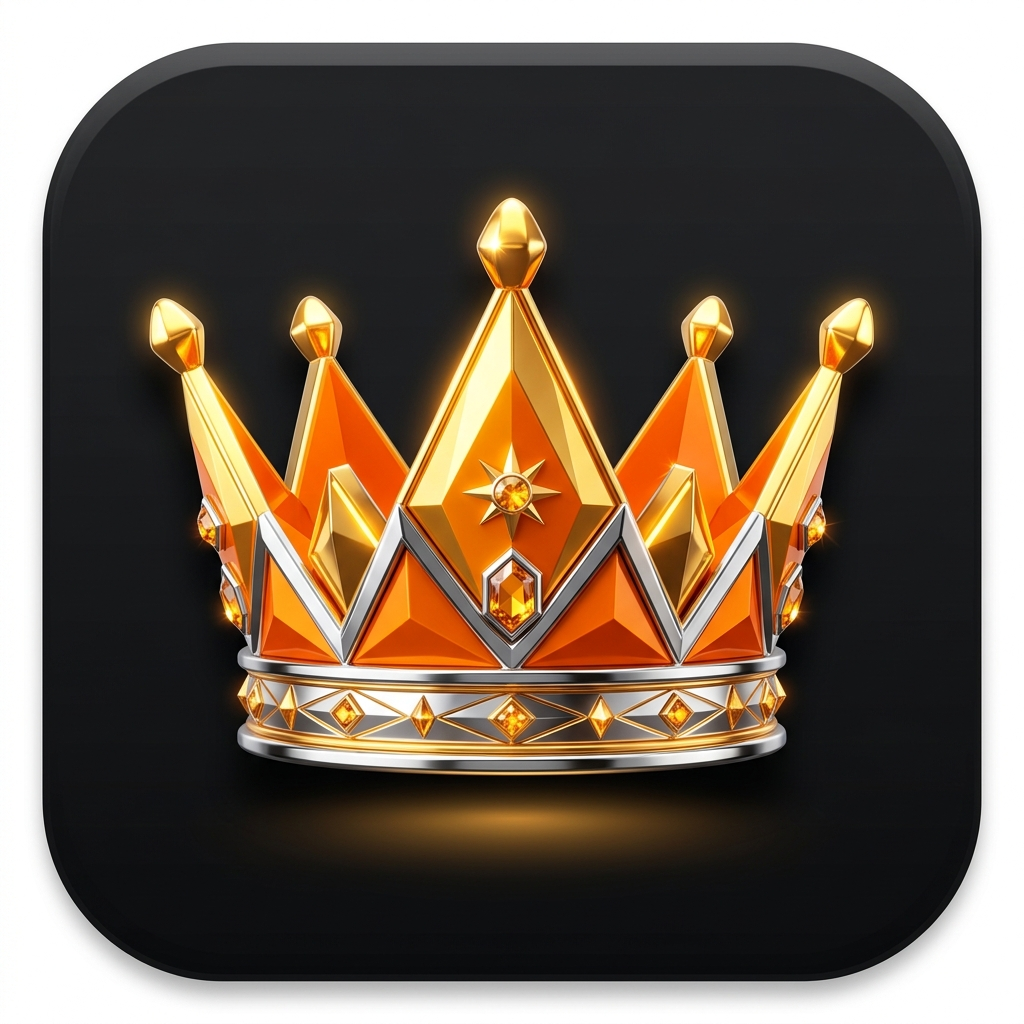
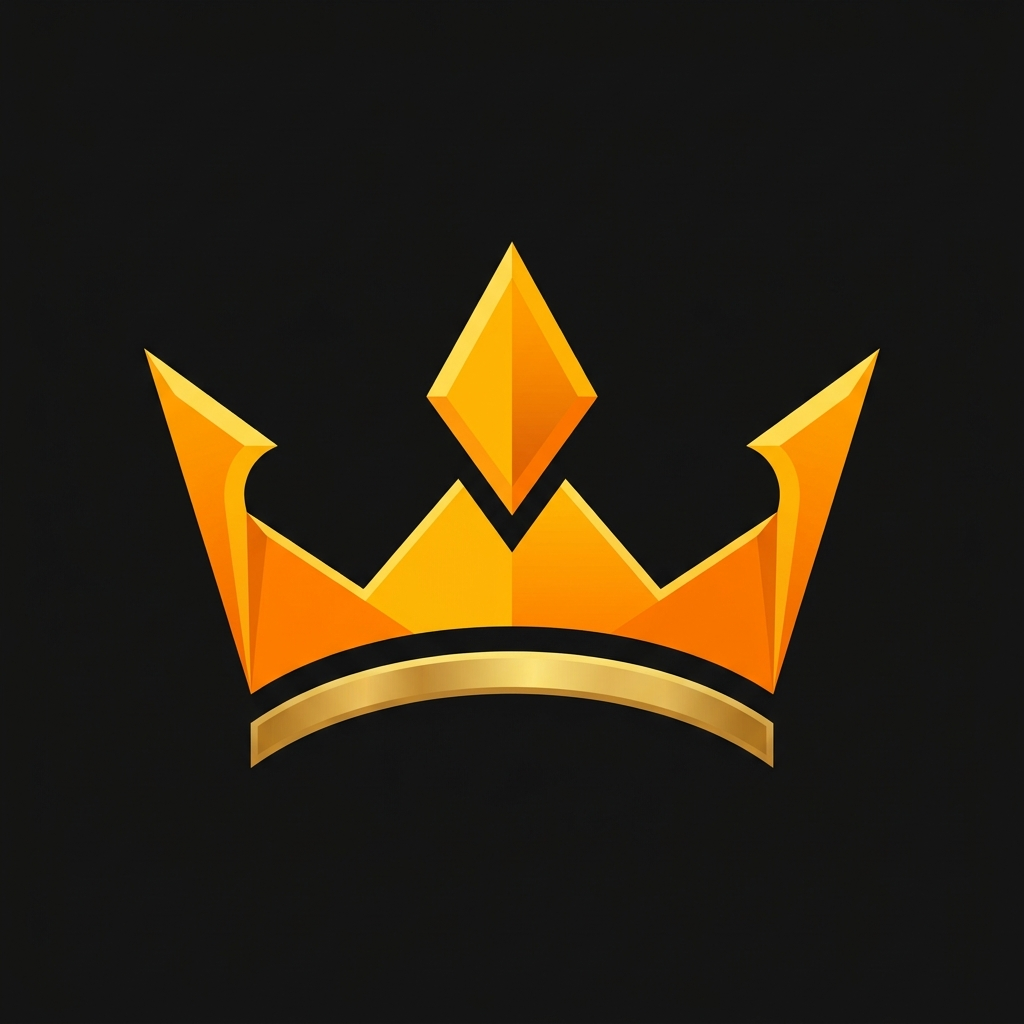
refactor(map): simplify CoverageMap component
Remove redundant API key validation UI to improve code
cleanliness. Update application icon metadata.

diff --git a/src/components/CoverageMap.tsx b/src/components/CoverageMap.tsx
@@ -139,132 +139,85 @@ export default function CoverageMap({
         
         {/* GOOGLE MAPS PLATFORM REAL INTEGRATION VIEW */}
         <div className="w-full h-full relative" id="google-maps-integration-view">
-          {!hasValidKey ? (
-            /* Splash screen informative card for missing API key */
-            <div className="absolute inset-0 flex flex-col items-center justify-center bg-black/95 p-6 text-center select-text z-20">
-              <div className="max-w-md bg-[#161616] border border-neutral-800 p-5 rounded-2xl shadow-2xl space-y-4">
-                <div className="w-12 h-12 rounded-xl bg-orange-950/50 border border-orange-500/30 flex items-center justify-center mx-auto text-xl">
-                  ⚠️
-                </div>
-                <div className="space-y-1">
-                  <h3 className="text-sm font-black text-white uppercase tracking-wider">Chave do Google Maps Requerida</h3>
-                  <p className="text-[11px] text-slate-400 leading-relaxed">
-                    Para visualizar o Mapa Real integrado por satélite e geolocalização exata, você precisa associar uma Chave de API do Google Maps Platform nos Secrets do seu workspace.
-                  </p>
-                </div>
+          <APIProvider apiKey={API_KEY || ''} version="weekly">
+            <Map
+              defaultCenter={CENTER_COORD}
+              defaultZoom={12}
+              mapId="DEMO_MAP_ID"
+              gestureHandling="cooperative"
+              disableDefaultUI={false}
+              internalUsageAttributionIds={['gmp_mcp_codeassist_v1_aistudio']}
+              style={{ width: '100%', height: '100%' }}
+            >
+              {/* Driver locator pin */}
+              <AdvancedMarker position={CENTER_COORD} title="Você (Sua Carga)">
+                <Pin background="#FF8C00" borderColor="#FFFFFF" glyphColor="#000000" scale={1.2}>
+                  🚚
+                </Pin>
+              </AdvancedMarker>
 
-                <div className="bg-black/65 border border-neutral-850 p-3 rounded-xl text-left text-[10px] text-slate-350 space-y-1.5 leading-normal">
-                  <p className="font-black text-orange-400 uppercase tracking-widest text-[9px]">Passo a Passo de Configuração:</p>
-                  <p><strong>1.</strong> Obtenha uma chave no console: <a href="https://console.cloud.google.com/google/maps-apis/start?utm_campaign=gmp-code-assist-ais" target="_blank" rel="noopener noreferrer" className="text-orange-400 hover:underline inline-flex items-center gap-0.5 font-bold">Obter Chave <ExternalLink className="w-3 h-3" /></a></p>
-                  <p><strong>2.</strong> Abra as <strong>Configurações do AI Studio</strong> (ícone de engrenagem ⚙️ no canto superior direito).</p>
-                  <p><strong>3.</strong> Acesse a aba <strong>Secrets</strong> e clique em <strong>Add Secret</strong>.</p>
-                  <p><strong>4.</strong> Digite o nome <code>GOOGLE_MAPS_PLATFORM_KEY</code> e insira a sua chave como valor.</p>
-                  <p className="text-slate-500 font-bold italic mt-1">O projeto irá se recompilar automaticamente e o Mapa Real carregará em tempo real!</p>
-                </div>
+              {/* Active suppliers pins on real map */}
+              {suppliers.filter(getIsSupplierVisible).map((supplier) => {
+                const coords = getGoogleCoords(supplier);
+                const isSelected = activeSupplierId === supplier.id || selectedGoogleSupplier?.id === supplier.id;
+                const hexColor = getCategoryHexColor(supplier.category);
+                const emoji = getCategoryEmoji(supplier.category);
 
-                <div className="flex gap-2 justify-center">
-                  <button
-                    type="button"
-                    onClick={() => setShowKeyHelp(!showKeyHelp)}
-                    className="px-4 py-2 bg-[#FF8C00] text-black rounded-xl text-[10px] font-black uppercase tracking-wider hover:bg-orange-500 cursor-pointer"
+                return (
+                  <AdvancedMarker
+                    key={supplier.id}
+                    position={coords}
+                    title={supplier.name}
+                    onClick={() => {
+                      setSelectedGoogleSupplier(supplier);
+                      onSelectSupplier(supplier);
+                    }}
                   >
-                    Como Obter Grátis
-                  </button>
-                </div>
-
-                {showKeyHelp && (
-                  <motion.div 
-                    initial={{ opacity: 0, y: 10 }}
-                    animate={{ opacity: 1, y: 0 }}
-                    className="text-[10px] text-left text-slate-400 leading-normal border-t border-neutral-850 pt-2.5 space-y-1"
-                  >
-                    <p>O Google Maps Platform oferece um crédito gratuito mensal de <strong>$200 dólares</strong> para todos os desenvolvedores. Esse crédito cobre até <strong>28.000 carregamentos de mapa</strong> mensais de forma 100% gratuita para testes e homologação.</p>
-                  </motion.div>
-                )}
-              </div>
-            </div>
-          ) : (
-            /* REAL GOOGLE MAPS PLATFORM ELEMENT */
-            <APIProvider apiKey={API_KEY} version="weekly">
-              <Map
-                defaultCenter={CENTER_COORD}
-                defaultZoom={12}
-                mapId="DEMO_MAP_ID"
-                gestureHandling="cooperative"
-                disableDefaultUI={false}
-                internalUsageAttributionIds={['gmp_mcp_codeassist_v1_aistudio']}
-                style={{ width: '100%', height: '100%' }}
-              >
-                {/* Driver locator pin */}
-                <AdvancedMarker position={CENTER_COORD} title="Você (Sua Carga)">
-                  <Pin background="#FF8C00" borderColor="#FFFFFF" glyphColor="#000000" scale={1.2}>
-                    🚚
-                  </Pin>
-                </AdvancedMarker>
-
-                {/* Active suppliers pins on real map */}
-                {suppliers.filter(getIsSupplierVisible).map((supplier) => {
-                  const coords = getGoogleCoords(supplier);
-                  const isSelected = activeSupplierId === supplier.id || selectedGoogleSupplier?.id === supplier.id;
-                  const hexColor = getCategoryHexColor(supplier.category);
-                  const emoji = getCategoryEmoji(supplier.category);
-
-                  return (
-                    <AdvancedMarker
-                      key={supplier.id}
-                      position={coords}
-                      title={supplier.name}
-                      onClick={() => {
-                        setSelectedGoogleSupplier(supplier);
-                        onSelectSupplier(supplier);
-                      }}
+                    <Pin 
+                      background={hexColor} 
+                      borderColor={isSelected ? "#FFFFFF" : "#1A1A1A"} 
+                      glyphColor="#FFFFFF"
+                      scale={isSelected ? 1.25 : 1}
                     >
-                      <Pin 
-                        background={hexColor} 
-                        borderColor={isSelected ? "#FFFFFF" : "#1A1A1A"} 
-                        glyphColor="#FFFFFF"
-                        scale={isSelected ? 1.25 : 1}
-                      >
-                        <span className="text-xs">{emoji}</span>
-                      </Pin>
-                    </AdvancedMarker>
-                  );
-                })}
+                      <span className="text-xs">{emoji}</span>
+                    </Pin>
+                  </AdvancedMarker>
+                );
+              })}
 
-                {/* Info Window overlay for clicked supplier on real map */}
-                {selectedGoogleSupplier && (
-                  <InfoWindow
-                    position={getGoogleCoords(selectedGoogleSupplier)}
-                    onCloseClick={() => setSelectedGoogleSupplier(null)}
-                  >
-                    <div className="p-1.5 text-black font-sans max-w-[200px] text-left select-text">
-                      <div className="flex items-center gap-1">
-                        <span className="text-xs">{getCategoryEmoji(selectedGoogleSupplier.category)}</span>
-                        <span className="text-[8px] font-black uppercase tracking-wider text-[#FF8C00]">{selectedGoogleSupplier.category}</span>
-                      </div>
-                      <h4 className="text-[11px] font-bold text-neutral-900 mt-0.5 leading-tight">{selectedGoogleSupplier.name}</h4>
-                      <p className="text-[9px] text-neutral-650 mt-1 leading-normal">{selectedGoogleSupplier.specialty}</p>
-                      
-                      <div className="flex items-center justify-between mt-2 pt-1.5 border-t border-neutral-200 text-[9px] font-mono">
-                        <span className="font-extrabold text-neutral-800">Distância: {selectedGoogleSupplier.distance} KM</span>
-                        <span className="text-emerald-600 font-extrabold bg-emerald-50 px-1 rounded">⭐ {selectedGoogleSupplier.rating}</span>
-                      </div>
-
-                      <button
-                        type="button"
-                        onClick={() => {
-                          onSelectSupplier(selectedGoogleSupplier);
-                        }}
-                        className="w-full mt-2 bg-[#FF8C00] hover:bg-orange-500 text-black text-[9px] font-black uppercase tracking-wider py-1.5 rounded text-center transition-colors block cursor-pointer"
-                      >
-                        Solicitar Orçamento / Chat
-                      </button>
+              {/* Info Window overlay for clicked supplier on real map */}
+              {selectedGoogleSupplier && (
+                <InfoWindow
+                  position={getGoogleCoords(selectedGoogleSupplier)}
+                  onCloseClick={() => setSelectedGoogleSupplier(null)}
+                >
+                  <div className="p-1.5 text-black font-sans max-w-[200px] text-left select-text">
+                    <div className="flex items-center gap-1">
+                      <span className="text-xs">{getCategoryEmoji(selectedGoogleSupplier.category)}</span>
+                      <span className="text-[8px] font-black uppercase tracking-wider text-[#FF8C00]">{selectedGoogleSupplier.category}</span>
                     </div>
-                  </InfoWindow>
-                )}
-              </Map>
-            </APIProvider>
-          )}
+                    <h4 className="text-[11px] font-bold text-neutral-900 mt-0.5 leading-tight">{selectedGoogleSupplier.name}</h4>
+                    <p className="text-[9px] text-neutral-650 mt-1 leading-normal">{selectedGoogleSupplier.specialty}</p>
+                    
+                    <div className="flex items-center justify-between mt-2 pt-1.5 border-t border-neutral-200 text-[9px] font-mono">
+                      <span className="font-extrabold text-neutral-800">Distância: {selectedGoogleSupplier.distance} KM</span>
+                      <span className="text-emerald-600 font-extrabold bg-emerald-50 px-1 rounded">⭐ {selectedGoogleSupplier.rating}</span>
+                    </div>
+
+                    <button
+                      type="button"
+                      onClick={() => {
+                        onSelectSupplier(selectedGoogleSupplier);
+                      }}
+                      className="w-full mt-2 bg-[#FF8C00] hover:bg-orange-500 text-black text-[9px] font-black uppercase tracking-wider py-1.5 rounded text-center transition-colors block cursor-pointer"
+                    >
+                      Solicitar Orçamento / Chat
+                    </button>
+                  </div>
+                </InfoWindow>
+              )}
+            </Map>
+          </APIProvider>
         </div>
       </div>
 